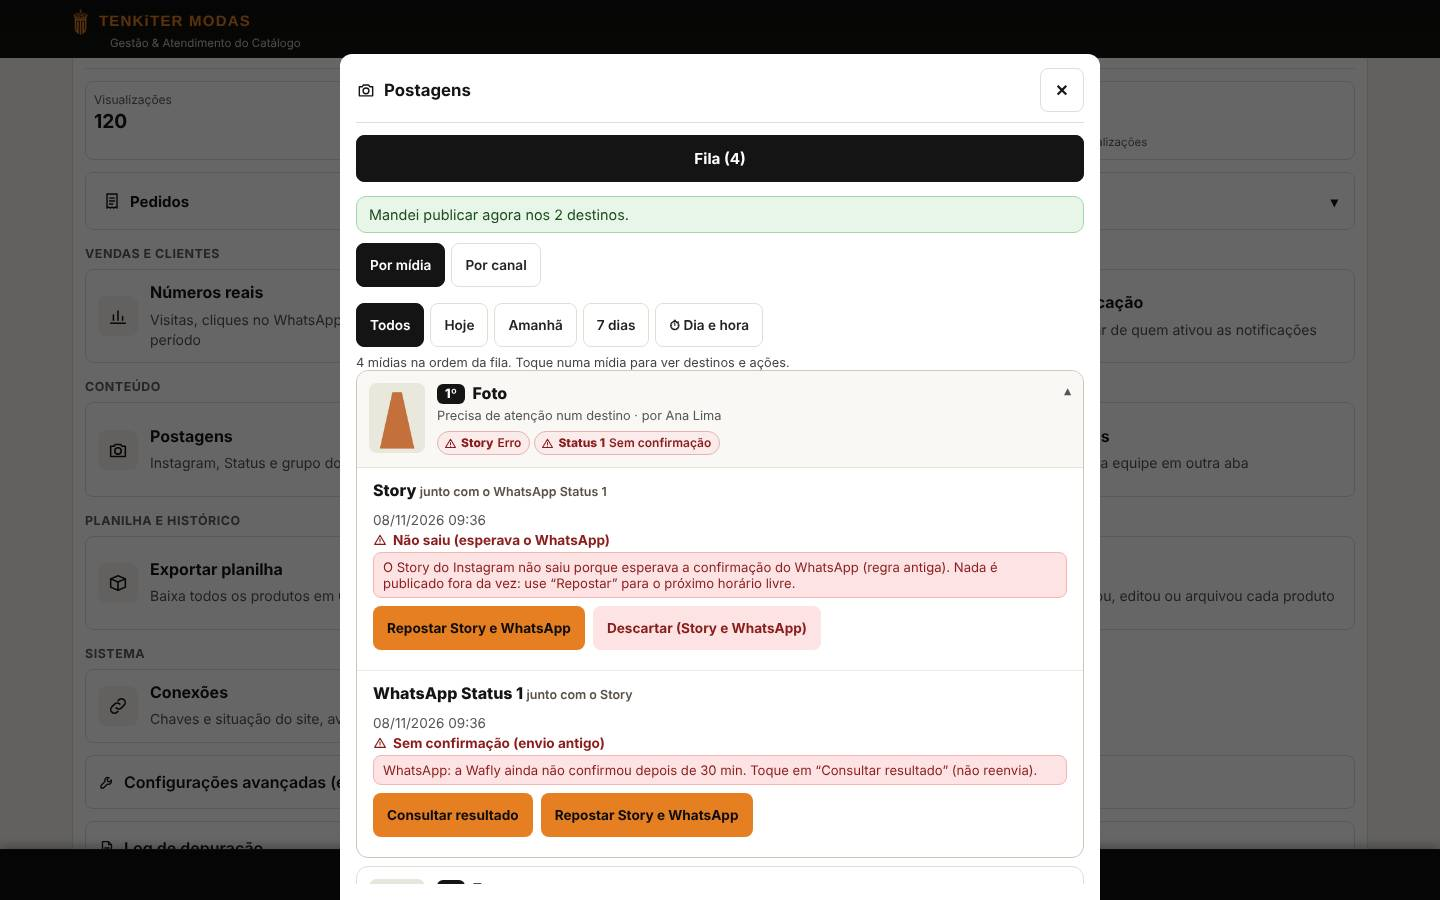
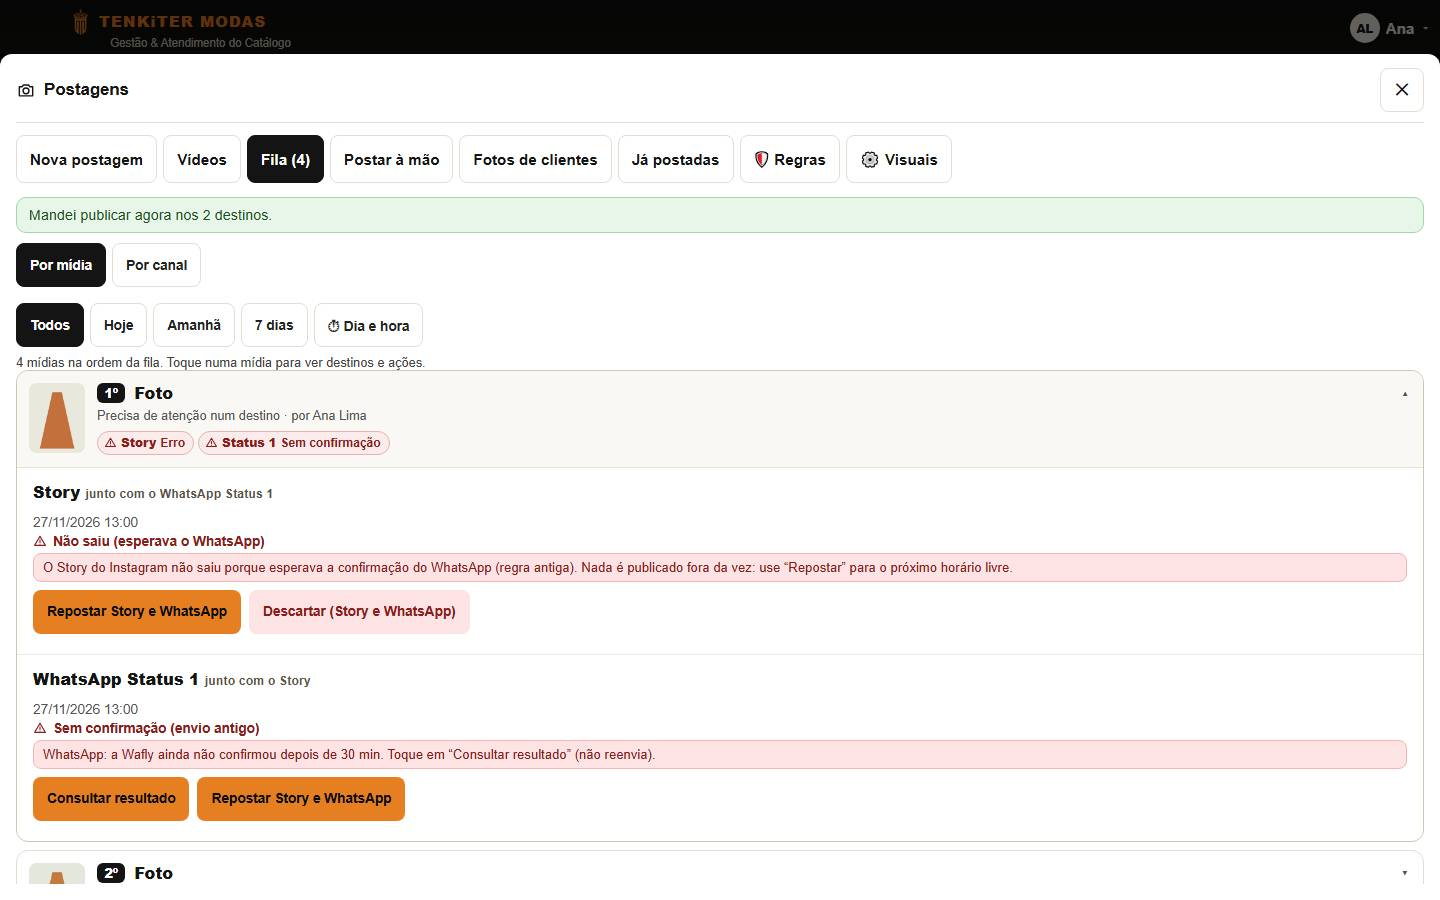
Teste das Postagens com relógio fixo (falhava só de madrugada)
O 'Próximo livre' segue a janela de postagem do dia; rodando de madrugada a
mídia ia para a manhã seguinte e o ▼ ficava desligado. Falha igual na main.

diff --git a/tests/postagens_zap_proativo_ui.py b/tests/postagens_zap_proativo_ui.py
@@ -85,15 +85,19 @@ with tempfile.TemporaryDirectory() as temp:
         if nome.endswith('.mp4'): return route.fulfill(body=VIDEO, content_type='video/mp4')
         return route.fulfill(status=404, body='')
 
+    # Relógio fixo às 15:00 de Fortaleza: o "Próximo livre" segue a janela de postagem do dia; rodando de madrugada a mídia
+    # ia para a manhã seguinte, virava a última e o ▼ ficava (corretamente) desligado — o teste falhava só pelo horário.
+    FIXO = datetime.now(timezone.utc).replace(hour=18, minute=0, second=0, microsecond=0)
     with sync_playwright() as p:
         browser = p.chromium.launch(args=['--no-sandbox'])
         for largura, altura in [(390, 844), (1440, 900)]:
             print('== %d px ==' % largura, flush=True)
             ctx = browser.new_context(viewport={'width': largura, 'height': altura}, device_scale_factor=1, timezone_id='America/Fortaleza')
+            ctx.clock.set_fixed_time(FIXO)
             ctx.add_init_script(SESSION); ctx.add_init_script('window.TK_POSTAGENS_POLL_MS=60000;')
             st = install(ctx, perms=PERMS_ALL, versao='7.48.3')
             ctx.route('**/m/202611/**', r2)
-            g = st['ig']; g['regras'] = True; g['posts'] = posts(datetime.now(timezone.utc))
+            g = st['ig']; g['regras'] = True; g['posts'] = posts(FIXO)
             consultas, reposts = [], []
 
             def consultar(route):
@@ -103,7 +107,7 @@ with tempfile.TemporaryDirectory() as temp:
 
             def repostar(route):
                 q = json.loads(route.request.post_data); reposts.append(q)
-                route.fulfill(json={'ok': True, 'id': 900 + len(reposts), 'quando': iso(datetime.now(timezone.utc) + timedelta(minutes=65)), 'canal': 'whatsapp'})
+                route.fulfill(json={'ok': True, 'id': 900 + len(reposts), 'quando': iso(FIXO + timedelta(minutes=65)), 'canal': 'whatsapp'})
             ctx.route('**/post/repostar', repostar)
             dialogos = []
             ctx.on('dialog', lambda d: (dialogos.append(d.message), d.accept()))
